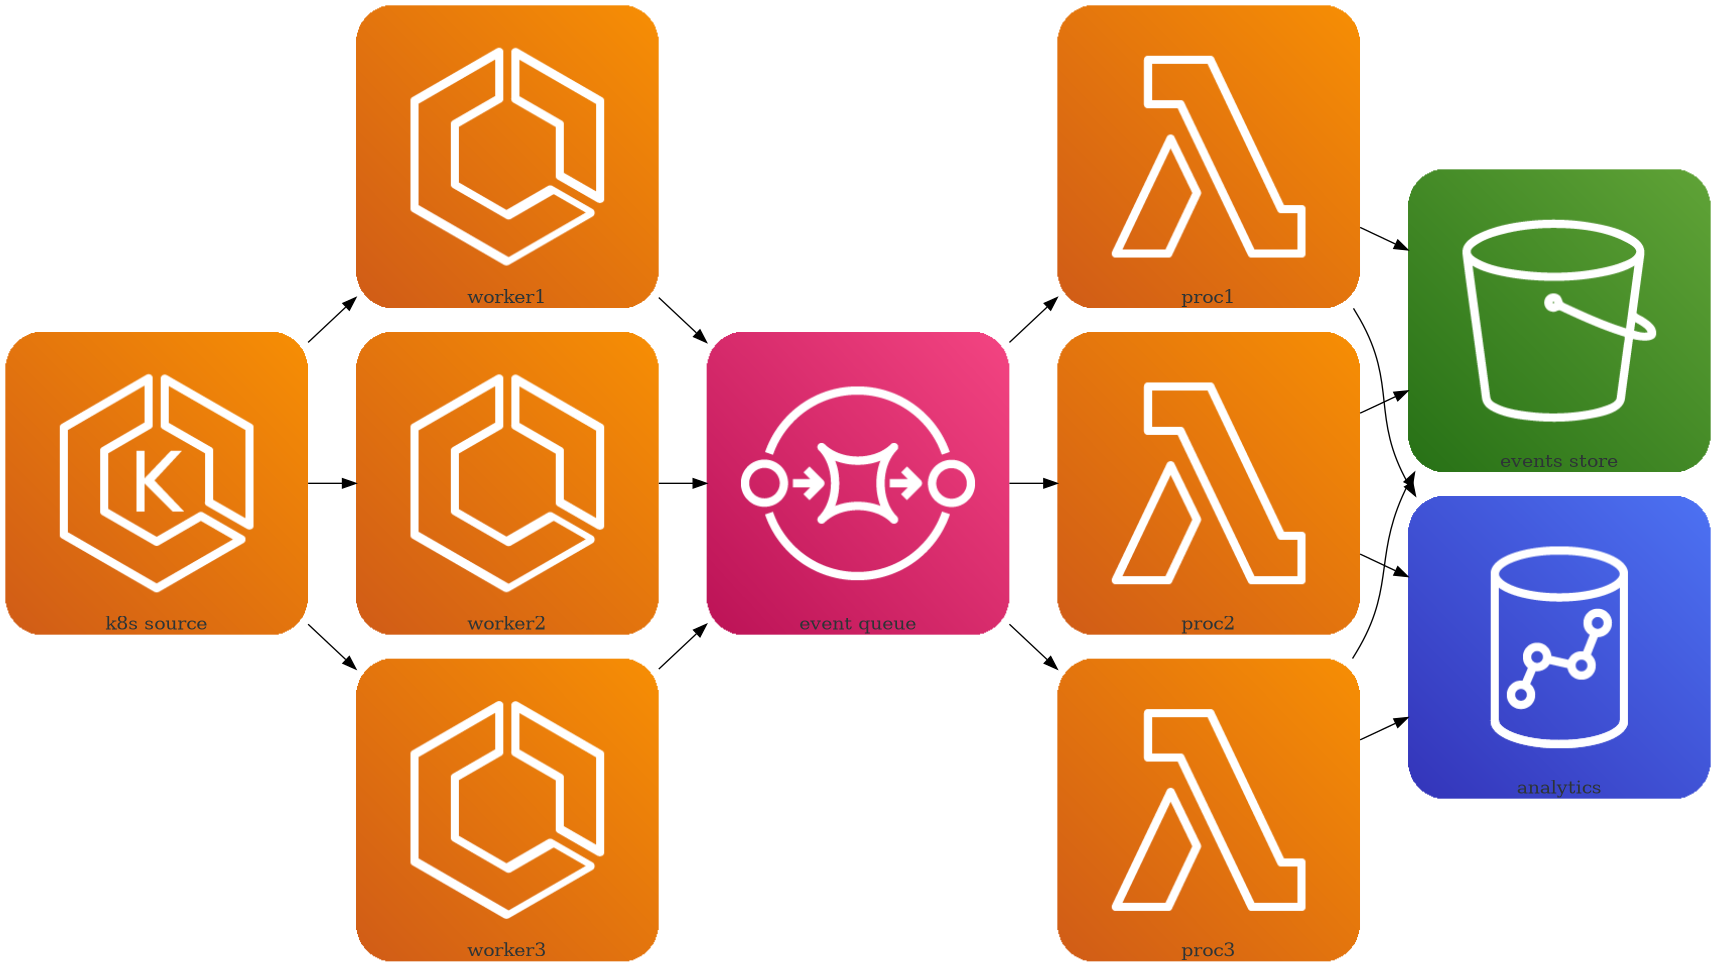
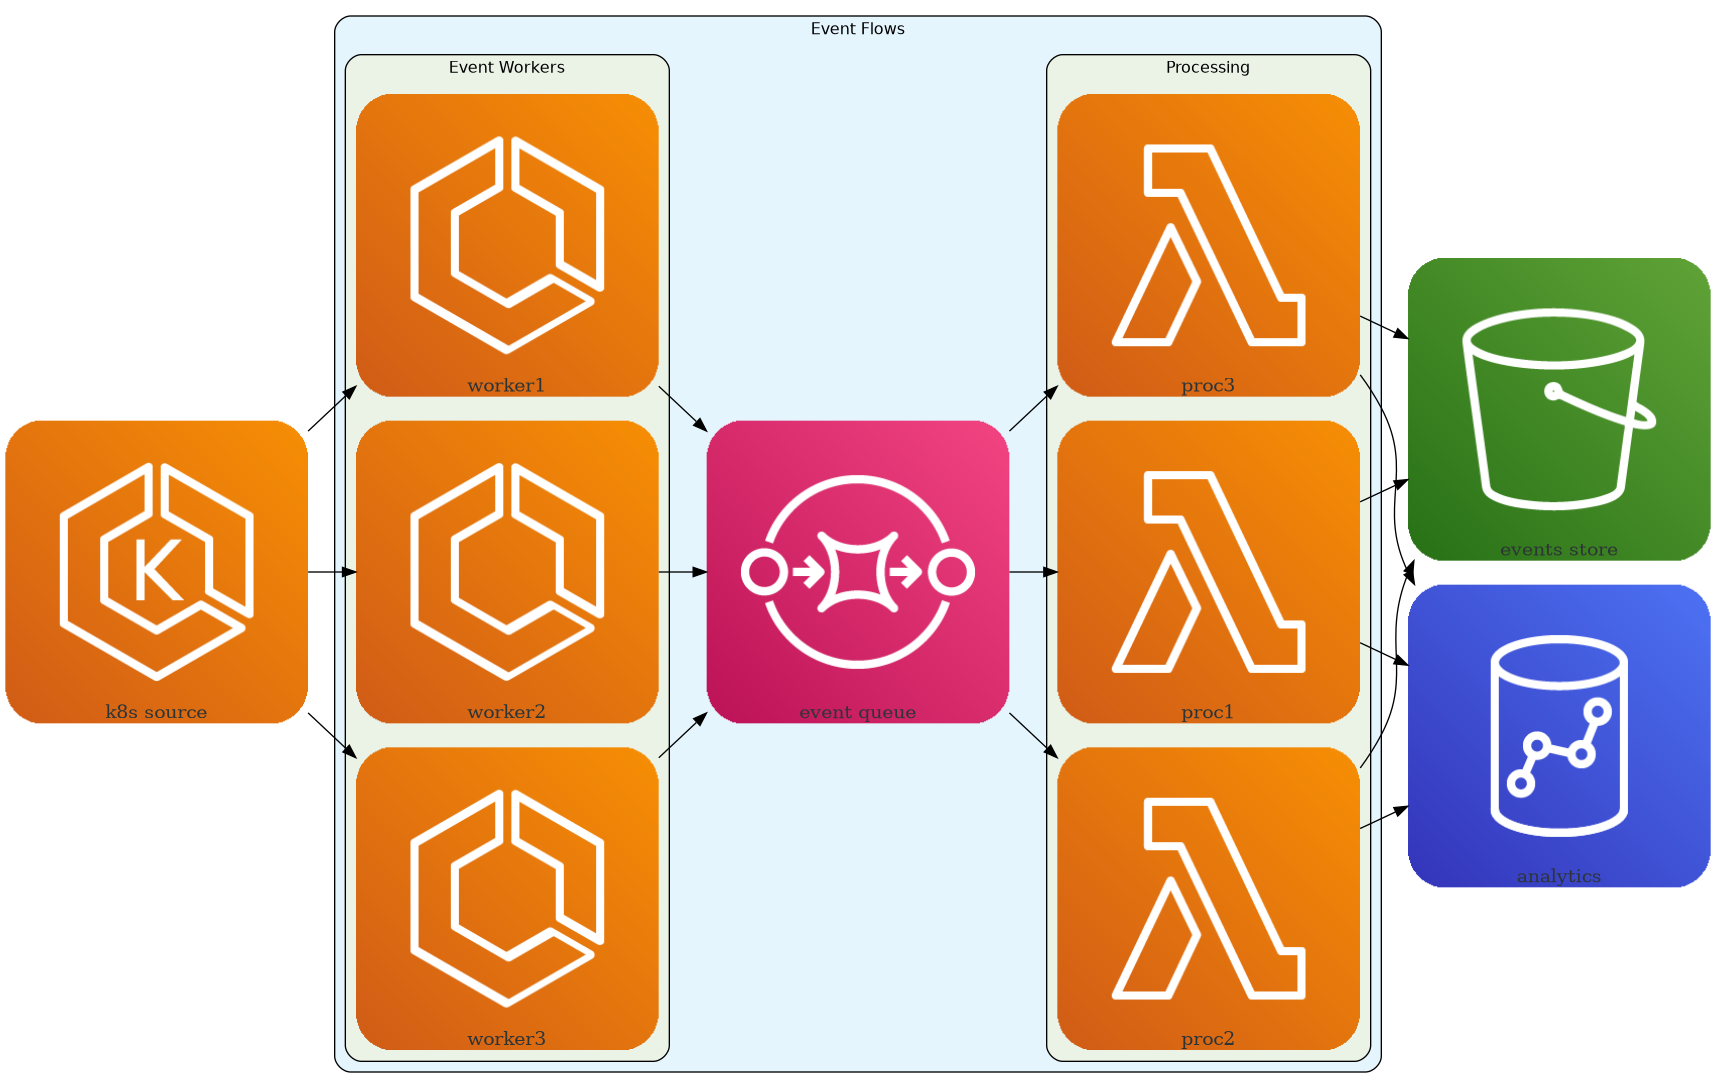
Implement visible cluster boxes using subgraphs

diff --git a/src/index.ts b/src/index.ts
@@ -1,11 +1,13 @@
 import { randomBytes } from 'crypto';
 import { digraph, toDot } from 'ts-graphviz';
+import type { RootGraphModel, SubgraphModel } from 'ts-graphviz';
 import * as path from 'path';
 import * as fs from 'fs';
 
 // Global contexts for diagrams and clusters
 let currentDiagram: Diagram | null = null;
 let currentCluster: Cluster | null = null;
+let currentSubgraph: RootGraphModel | SubgraphModel | null = null;
 
 export function getDiagram(): Diagram | null {
   return currentDiagram;
@@ -21,6 +23,14 @@ export function getCluster(): Cluster | null {
 
 export function setCluster(cluster: Cluster | null): void {
   currentCluster = cluster;
+}
+
+export function getSubgraph(): RootGraphModel | SubgraphModel | null {
+  return currentSubgraph;
+}
+
+export function setSubgraph(subgraph: RootGraphModel | SubgraphModel | null): void {
+  currentSubgraph = subgraph;
 }
 
 type Direction = 'TB' | 'BT' | 'LR' | 'RL';
@@ -116,6 +126,9 @@ export class Diagram {
     
     // Set graph direction (rankdir)
     this.dot.set('rankdir', this._direction);
+    
+    // Initialize subgraph context to the root graph
+    setSubgraph(this.dot);
 
     this.show = show;
     this.autolabel = autolabel;
@@ -186,12 +199,13 @@ export class Cluster {
   public readonly depth: number;
   private readonly diagram: Diagram;
   private readonly parent: Cluster | null;
+  private clusterSubgraph: SubgraphModel | null = null;
 
   constructor(options: ClusterOptions = {}) {
     const { label = 'cluster', direction = 'LR', graph_attr = {} } = options;
 
     this.label = label;
-    this.name = 'cluster_' + this.label;
+    this.name = 'cluster_' + this.label.replace(/\s+/g, '_');
 
     if (!this.validateDirection(direction)) {
       throw new Error(`"${direction}" is not a valid direction`);
@@ -212,7 +226,12 @@ export class Cluster {
   }
 
   public node(nodeid: string, label: string, attrs: Record<string, string> = {}): void {
-    this.diagram.node(nodeid, label, attrs);
+    const currentSub = getSubgraph();
+    if (currentSub) {
+      currentSub.node(nodeid, { label, ...attrs });
+    } else {
+      this.diagram.node(nodeid, label, attrs);
+    }
   }
 
   public subgraph(cluster: Cluster): void {
@@ -220,12 +239,33 @@ export class Cluster {
   }
 
   public async use<T>(callback: () => Promise<T> | T): Promise<T> {
+    const parentSubgraph = getSubgraph();
+    
+    if (!parentSubgraph) {
+      throw new Error('No parent subgraph context');
+    }
+    
+    // Create a new subgraph for this cluster
+    const bgColor = Cluster.BGCOLORS[this.depth % Cluster.BGCOLORS.length];
+    
+    const sub = parentSubgraph.subgraph(this.name);
+    sub.set('label', this.label);
+    sub.set('style', 'filled,rounded');
+    sub.set('fillcolor', bgColor);
+    sub.set('fontsize', 12);
+    sub.set('fontname', 'Sans-Serif');
+    
+    // Store this subgraph for use by nested nodes
+    this.clusterSubgraph = sub;
+    setSubgraph(sub);
+    
     setCluster(this);
     try {
       const result = await callback();
       return result;
     } finally {
       setCluster(this.parent);
+      setSubgraph(parentSubgraph);
     }
   }
 }
